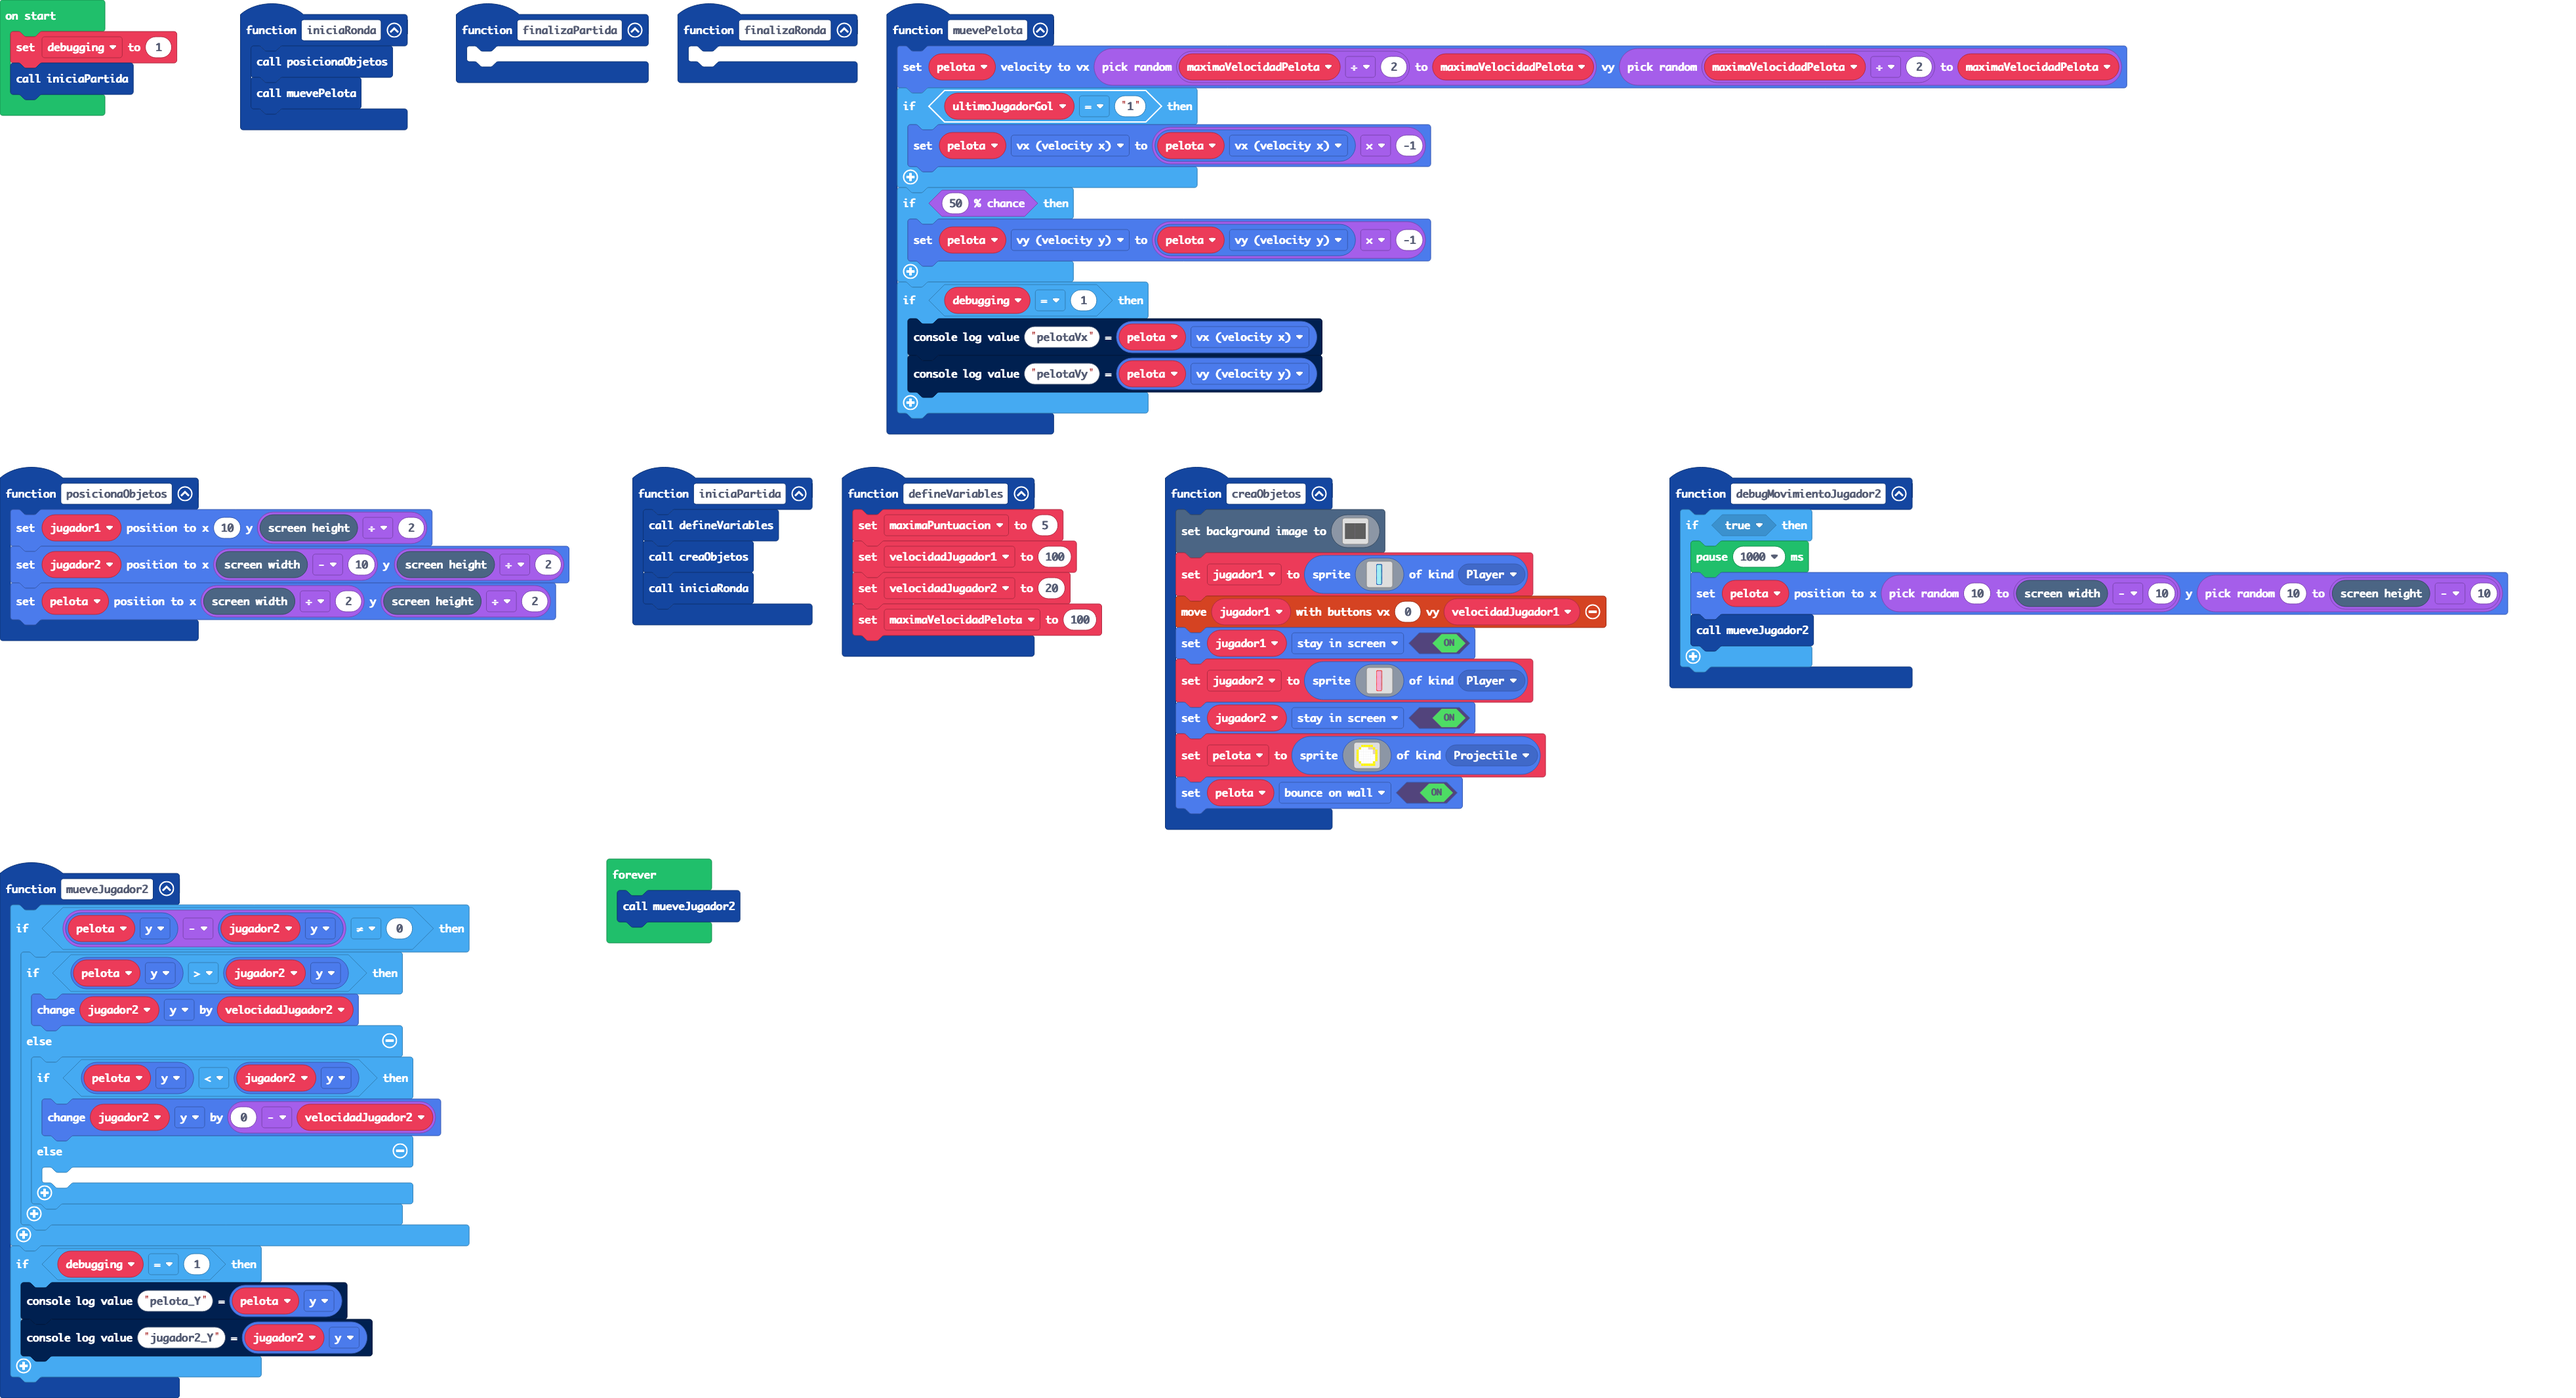
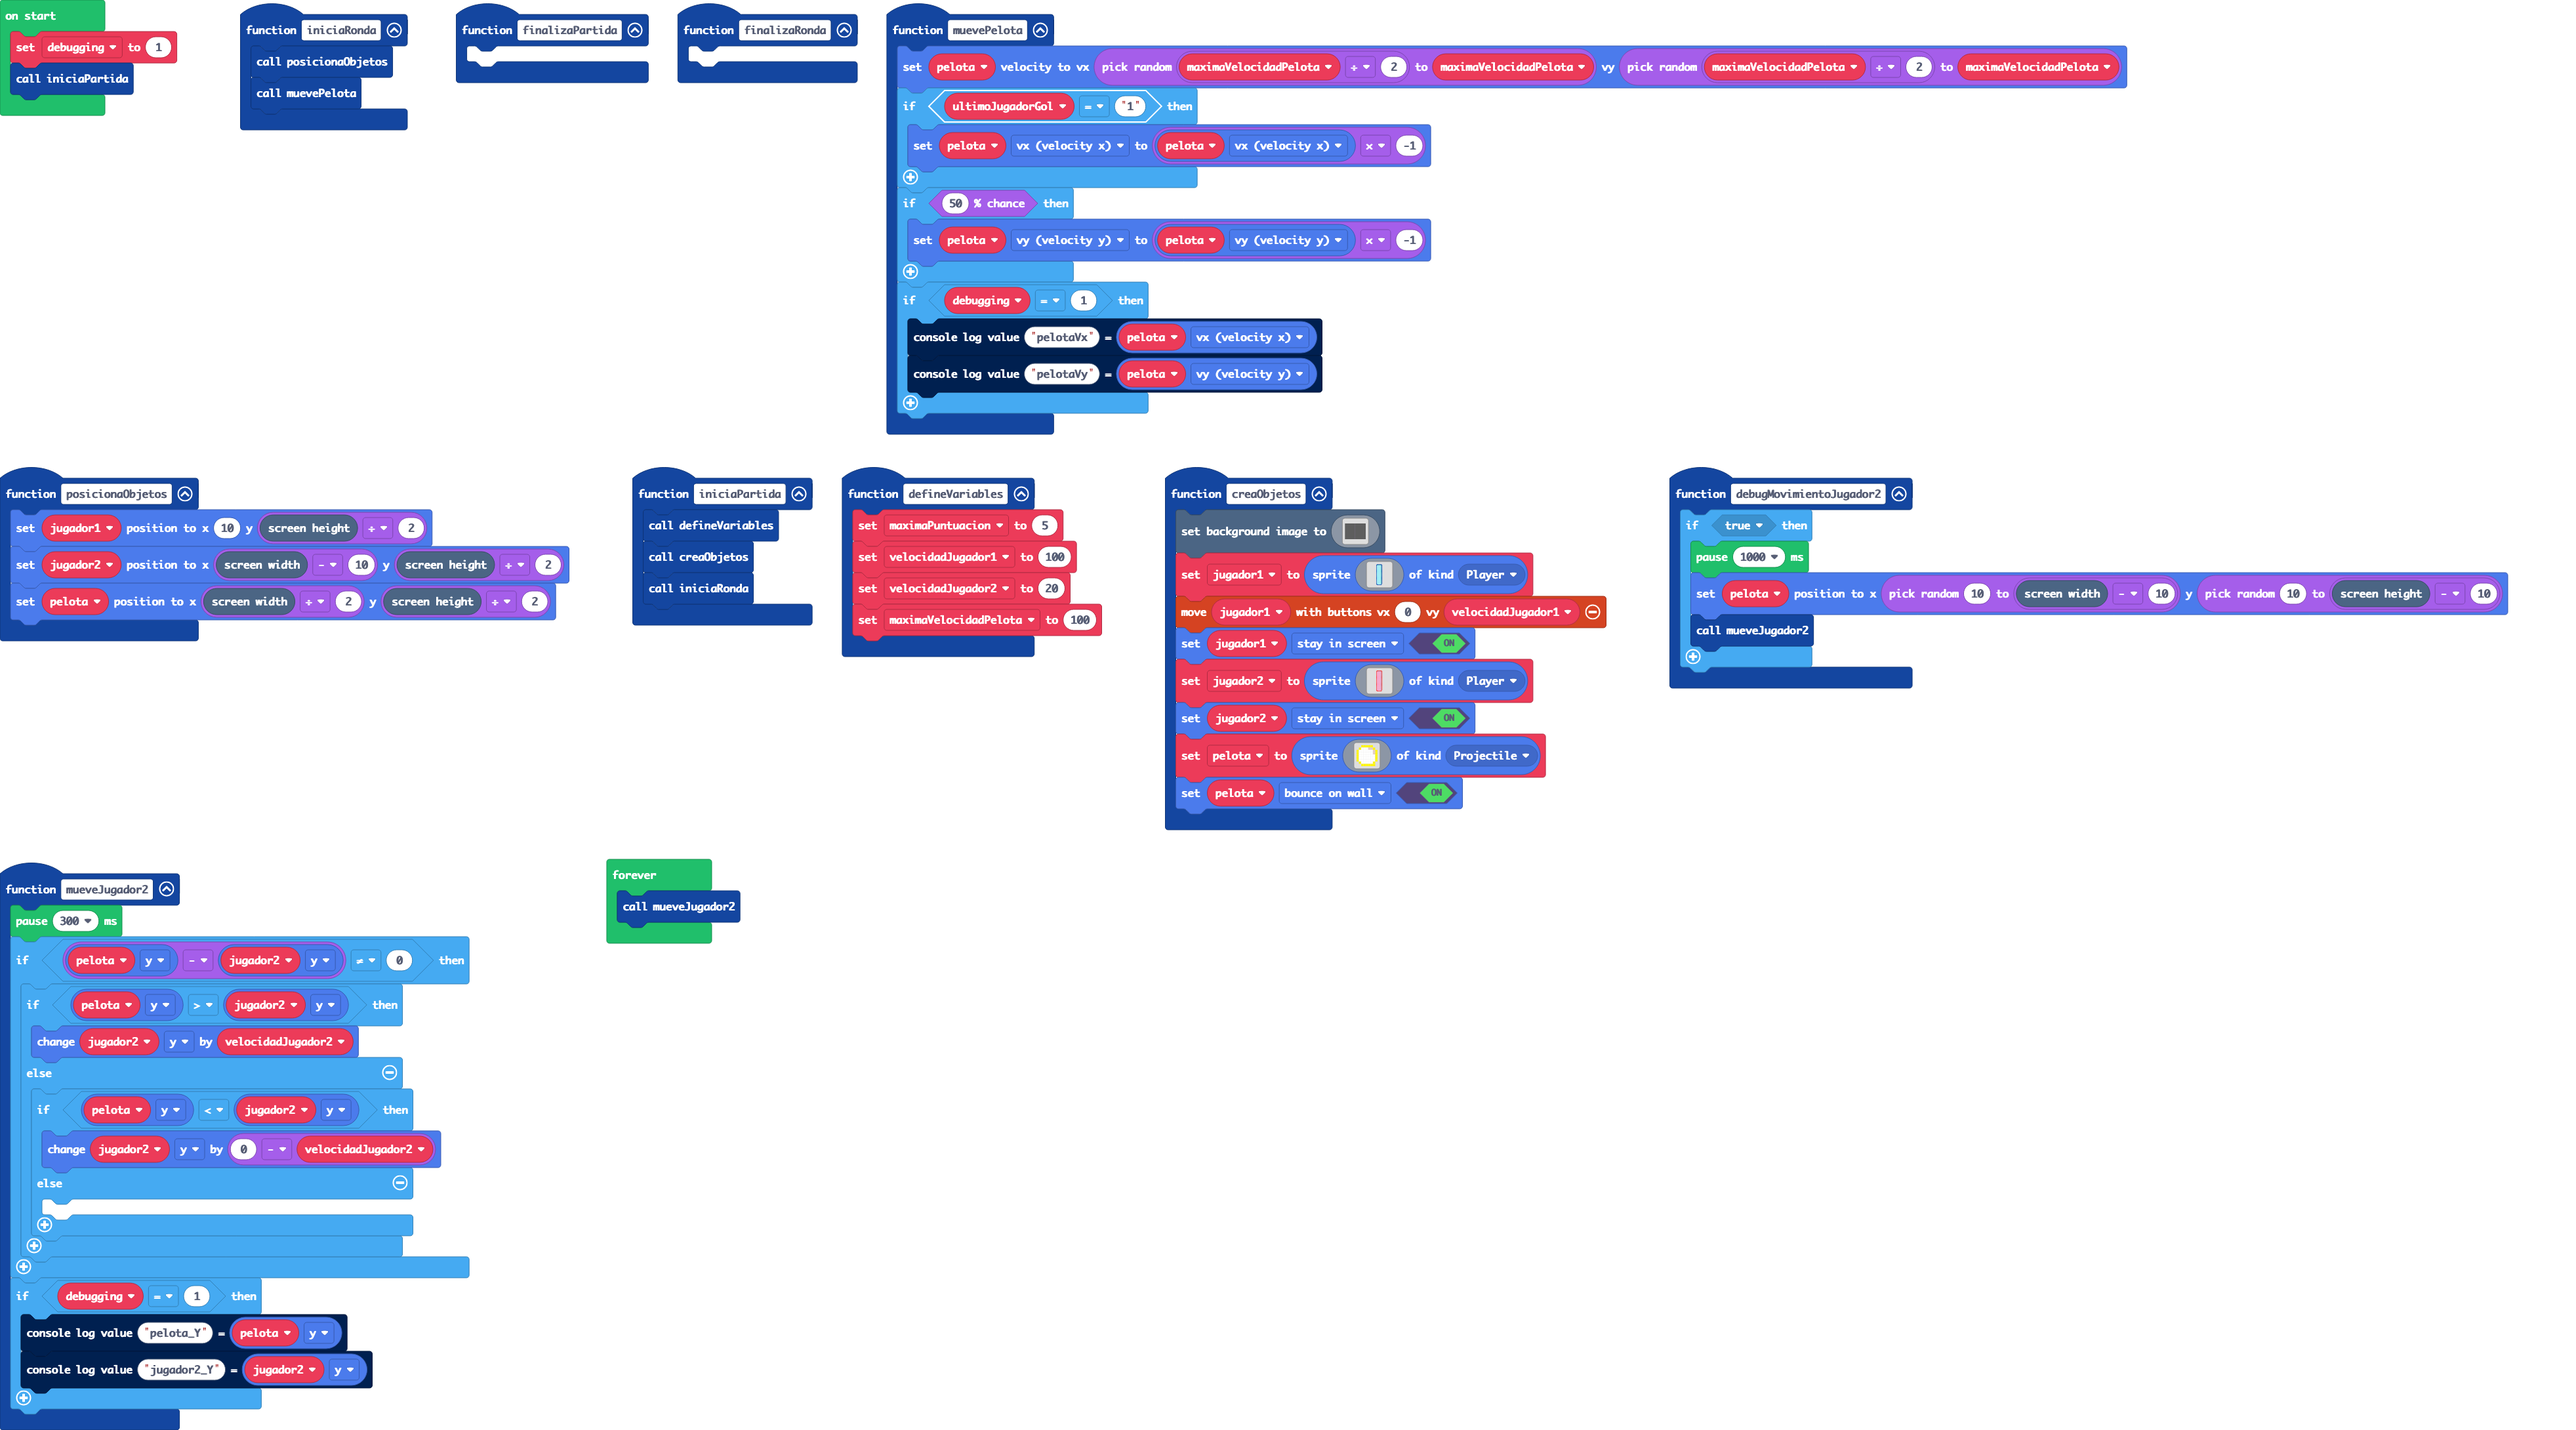
FIXME - eliminado "glitch" del jugador2 con un delay al actualizar

diff --git a/main.ts b/main.ts
@@ -20,6 +20,7 @@ function muevePelota () {
     }
 }
 function mueveJugador2 () {
+    pause(300)
     if (pelota.y - jugador2.y != 0) {
         if (pelota.y > jugador2.y) {
             jugador2.y += velocidadJugador2
